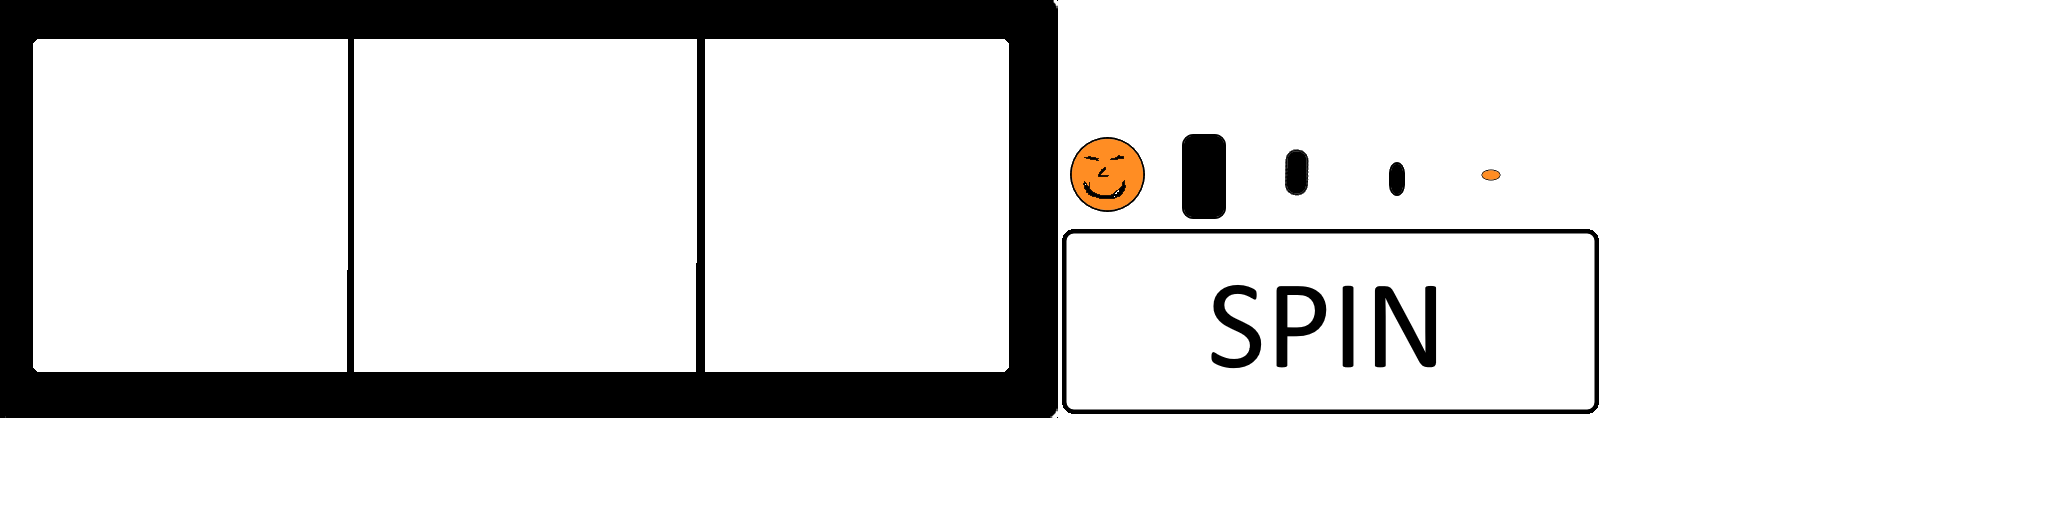
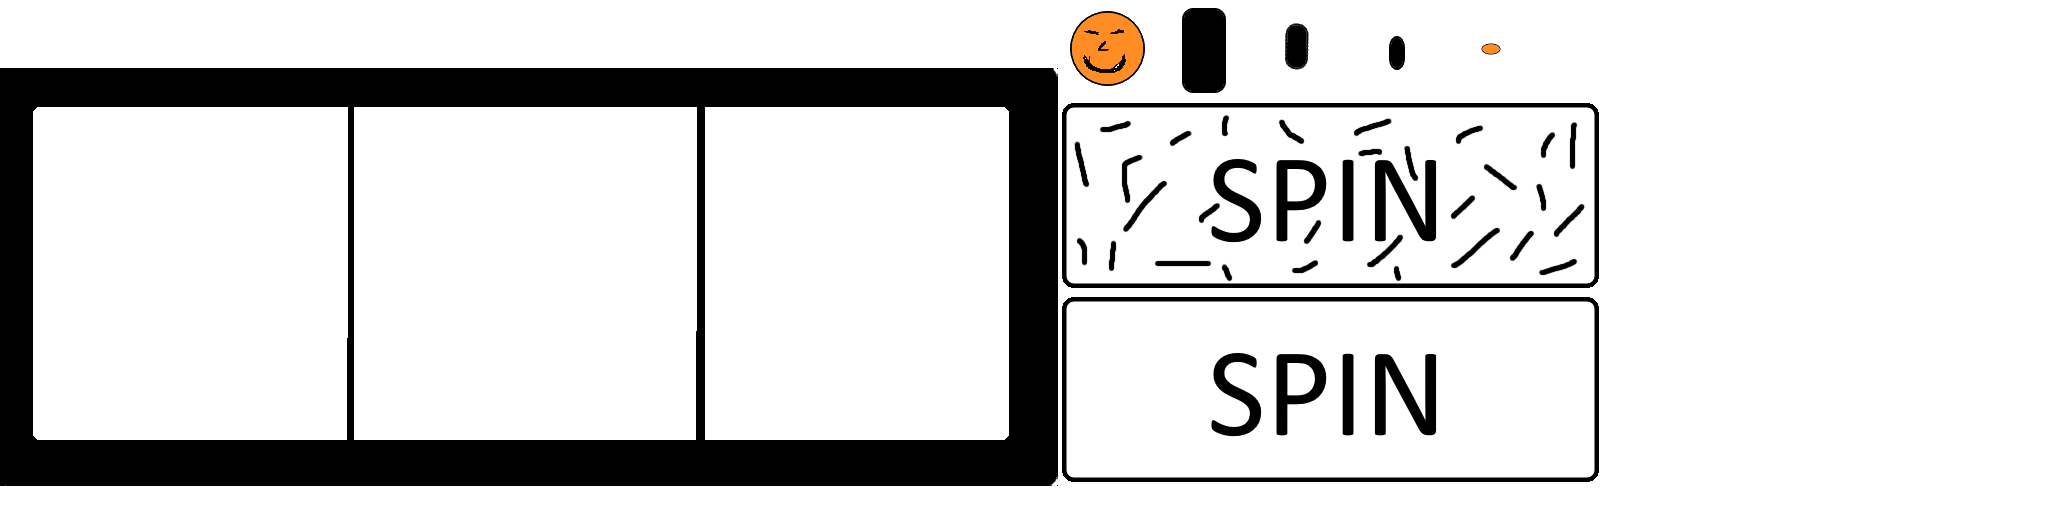
new spin button

Changed region(s): [[0.0, 0.0, 0.7812, 0.9688], [0.7188, 0.0938, 0.75, 0.125], [0.6875, 0.25, 0.7188, 0.2812]]

diff --git a/core/src/com/ledzinygamedevelopment/fallingman/screens/PlayScreen.java b/core/src/com/ledzinygamedevelopment/fallingman/screens/PlayScreen.java
@@ -19,10 +19,12 @@ import com.badlogic.gdx.physics.box2d.Fixture;
 import com.badlogic.gdx.physics.box2d.FixtureDef;
 import com.badlogic.gdx.physics.box2d.World;
 import com.badlogic.gdx.physics.box2d.joints.RopeJointDef;
+import com.badlogic.gdx.utils.Array;
 import com.badlogic.gdx.utils.viewport.ExtendViewport;
 import com.badlogic.gdx.utils.viewport.Viewport;
 import com.ledzinygamedevelopment.fallingman.FallingMan;
 import com.ledzinygamedevelopment.fallingman.sprites.interactiveobjects.Coin;
+import com.ledzinygamedevelopment.fallingman.sprites.interactiveobjects.buttons.Button;
 import com.ledzinygamedevelopment.fallingman.sprites.interactiveobjects.buttons.SpinButton;
 import com.ledzinygamedevelopment.fallingman.sprites.onearmbandit.OneArmBandit;
 import com.ledzinygamedevelopment.fallingman.sprites.player.Player;
@@ -30,6 +32,8 @@ import com.ledzinygamedevelopment.fallingman.tools.B2WorldCreator;
 import com.ledzinygamedevelopment.fallingman.tools.WorldContactListener;
 
 import java.util.Random;
+
+import sun.security.provider.ConfigFile;
 
 public class PlayScreen implements Screen {
 
@@ -54,13 +58,9 @@ public class PlayScreen implements Screen {
     //all bodies from map
     private B2WorldCreator b2WorldCreator;
 
-    //touch sensor
-    private Body touchSensorKinematicBody;
-    private Fixture touchSensorKinematicFixture;
-    private Body touchSensorDynamicBody;
-    private Fixture touchSensorDynamicFixture;
-
     private  OneArmBandit oneArmBandit;
+    private SpinButton spinButton;
+    private Array<Button> buttons;
 
     public PlayScreen(FallingMan game) {
         atlas = new TextureAtlas("player.pack");
@@ -77,11 +77,14 @@ public class PlayScreen implements Screen {
         b2dr = new Box2DDebugRenderer();
 
         b2WorldCreator = new B2WorldCreator(world, map);
-        createTouchSensor();
         //creating player
         player = new Player(world, this);
         oneArmBandit = new OneArmBandit(this, world);
         world.setContactListener(new WorldContactListener(player));
+
+        buttons = new Array<>();
+        spinButton = new SpinButton(this, world, 448 / FallingMan.PPM, 7936 / FallingMan.PPM, 544 / FallingMan.PPM, 192 / FallingMan.PPM);
+        buttons.add(spinButton);
         //gameCam.zoom = 5;
     }
 
@@ -109,19 +112,27 @@ public class PlayScreen implements Screen {
         //mobile
         if(Gdx.input.isTouched()) {
 
-            // setting touched point to collide with buttons
-            setCategoryTouchSensorFilter(FallingMan.TOUCHED_POINT_BIT);
+            // check if buttons click
             Vector2 mouseVector = gamePort.unproject(new Vector2(Gdx.input.getX(), Gdx.input.getY()));
-            touchSensorKinematicBody.setTransform(mouseVector, 0);
-            touchSensorDynamicBody.setTransform(mouseVector, 0);
+            for (Button button : buttons) {
+                if(button.mouseOver(mouseVector)) {
+                    button.touched();
+                }
+            }
+
             //moving player
             if(Gdx.input.getX() < Gdx.graphics.getWidth() / 2f) {
                 player.getBelly().getB2body().applyLinearImpulse(new Vector2(-0.5f, 0f), player.getBelly().getB2body().getWorldCenter(), true);
             } else {
                 player.getBelly().getB2body().applyLinearImpulse(new Vector2(0.5f, 0f), player.getBelly().getB2body().getWorldCenter(), true);
             }
-        } else if(touchSensorKinematicFixture.getFilterData().categoryBits != FallingMan.UNTOUCHED_POINT_BIT){ // if screen untouched then set touch sensor filter to not collide with buttons
-            setCategoryTouchSensorFilter(FallingMan.UNTOUCHED_POINT_BIT);
+        } else {
+            for(Button button : buttons) {
+                if(button.isClicked()) {
+                    player.setRemoveHeadJointsAndButton(true);
+                    removeButton(button);
+                }
+            }
         }
     }
 
@@ -159,6 +170,9 @@ public class PlayScreen implements Screen {
         game.batch.begin();
         player.draw(game.batch);
         oneArmBandit.draw(game.batch);
+        for(Button button : buttons) {
+            button.draw(game.batch);
+        }
         game.batch.end();
     }
 
@@ -206,60 +220,11 @@ public class PlayScreen implements Screen {
         player.updateBodyParts();
     }
 
-    private void createTouchSensor() {
-
-        BodyDef bdef = new BodyDef();
-        bdef.type = BodyDef.BodyType.DynamicBody;
-        touchSensorDynamicBody = world.createBody(bdef);
-
-        FixtureDef fdef = new FixtureDef();
-        CircleShape shape = new CircleShape();
-        shape.setRadius(10 / FallingMan.PPM);
-
-        fdef.shape = shape;
-        //fdef.isSensor = true;
-        fdef.filter.categoryBits = FallingMan.UNTOUCHED_POINT_BIT;
-        fdef.filter.maskBits = FallingMan.SPIN_BIT;
-        touchSensorDynamicFixture = touchSensorDynamicBody.createFixture(fdef);
-
-        bdef = new BodyDef();
-        bdef.type = BodyDef.BodyType.KinematicBody;
-        touchSensorKinematicBody = world.createBody(bdef);
-
-        fdef = new FixtureDef();
-        shape.setRadius(10 / 100f);
-        fdef.shape = shape;
-        fdef.isSensor = true;
-        fdef.filter.categoryBits = FallingMan.UNTOUCHED_POINT_BIT;
-        fdef.filter.maskBits = FallingMan.SPIN_BIT;
-        touchSensorKinematicFixture = touchSensorKinematicBody.createFixture(fdef);
-
-
-        RopeJointDef ropeJointDef = new RopeJointDef();
-        ropeJointDef.localAnchorA.x = 0;
-        ropeJointDef.localAnchorB.x = 0;
-        ropeJointDef.localAnchorA.y = 0;
-        ropeJointDef.localAnchorB.y = 0;
-        ropeJointDef.bodyA = touchSensorDynamicBody;
-        ropeJointDef.bodyB = touchSensorKinematicBody;
-        ropeJointDef.maxLength = 1 / FallingMan.PPM;
-        world.createJoint(ropeJointDef);
-
-    }
-
-    public void setCategoryTouchSensorFilter(short filterBit) {
-        Filter filter = new Filter();
-        filter.categoryBits = filterBit;
-        filter.maskBits = FallingMan.SPIN_BIT;
-        touchSensorKinematicFixture.setFilterData(filter);
-
-        filter = new Filter();
-        filter.categoryBits = filterBit;
-        filter.maskBits = FallingMan.SPIN_BIT;
-        touchSensorDynamicFixture.setFilterData(filter);
-    }
-
     public B2WorldCreator getB2WorldCreator() {
         return b2WorldCreator;
+    }
+
+    public void removeButton(Button button) {
+        buttons.removeValue(button, false);
     }
 }

diff --git a/core/src/com/ledzinygamedevelopment/fallingman/sprites/interactiveobjects/buttons/Button.java b/core/src/com/ledzinygamedevelopment/fallingman/sprites/interactiveobjects/buttons/Button.java
@@ -1,5 +1,7 @@
 package com.ledzinygamedevelopment.fallingman.sprites.interactiveobjects.buttons;
 
+import com.badlogic.gdx.Gdx;
+import com.badlogic.gdx.Screen;
 import com.badlogic.gdx.graphics.g2d.Sprite;
 import com.badlogic.gdx.maps.MapObject;
 import com.badlogic.gdx.maps.objects.PolygonMapObject;
@@ -14,63 +16,43 @@ import com.badlogic.gdx.physics.box2d.PolygonShape;
 import com.badlogic.gdx.physics.box2d.World;
 import com.badlogic.gdx.utils.Array;
 import com.ledzinygamedevelopment.fallingman.FallingMan;
+import com.ledzinygamedevelopment.fallingman.screens.PlayScreen;
 
 public abstract class Button extends Sprite {
 
     protected BodyDef bdef;
     protected Body b2body;
     protected FixtureDef fdef;
-    protected Rectangle bounds;
+    protected PlayScreen playScreen;
     protected World world;
-    protected TiledMap map;
-    private int mapLayer;
+    protected float posX;
+    protected float posY;
+    protected float width;
+    protected float height;
+    protected boolean clicked;
 
-    public Button(Rectangle bounds, World world, TiledMap map, int mapLayer) {
-        this.bounds = bounds;
+    public Button(PlayScreen playScreen, World world, float posX, float posY, float width, float height) {
+        this.playScreen = playScreen;
         this.world = world;
-        this.map = map;
-        this.mapLayer = mapLayer;
-
-
-        defineButton(bounds);
+        this.posX = posX;
+        this.posY = posY;
+        this.width = width;
+        this.height = height;
+        clicked = false;
     }
 
-    public abstract void defineButton(Rectangle bounds);
+    public abstract void touched();
 
-    public void removeCells() {
-        TiledMapTileLayer layer = (TiledMapTileLayer) map.getLayers().get(mapLayer);
-        Array<TiledMapTileLayer.Cell> cells = new Array<>();
-
-        int sizeWidth = (int) bounds.getWidth() / FallingMan.CELL_SIZE / 2;
-        int maxSizeWidth = (bounds.getWidth() / FallingMan.CELL_SIZE) % 2 == 0 ? sizeWidth - 1 : sizeWidth;
-        int sizeHeight = (int) bounds.getHeight() / FallingMan.CELL_SIZE / 2;
-        int maxSizeHeight = (bounds.getHeight() / FallingMan.CELL_SIZE) % 2 == 0 ? sizeHeight - 1 : sizeHeight;
-
-        for(int i = -sizeWidth; i <= maxSizeWidth; i++) {
-            for(int j = -sizeHeight; j <= maxSizeHeight; j++) {
-                cells.add(layer.getCell((int) (((b2body.getPosition().x * FallingMan.PPM) + (i * FallingMan.CELL_SIZE)) / FallingMan.CELL_SIZE),
-                        (int) (((b2body.getPosition().y * FallingMan.PPM) + (j * FallingMan.CELL_SIZE)) / FallingMan.CELL_SIZE)));
-            }
-        }
-
-        for(TiledMapTileLayer.Cell cell : cells) {
-            try {
-                cell.setTile(null);
-            } catch (Exception e) {
-                e.printStackTrace();
-            }
-        }
-    }
-/*
     // checking if mouse position equals button position
     public boolean mouseOver(Vector2 mousePosition) {
-        if(mousePosition.x > posX - width / 2 * scale + width / 2 && mousePosition.x < posX + width / 2 * scale + width / 2
-                && mousePosition.y > posY - height / 2 * scale + height / 2 && mousePosition.y < posY + height / 2 * scale + height / 2)
+        if(mousePosition.x > posX && mousePosition.x < posX + width
+                && mousePosition.y > posY && mousePosition.y < posY + height)
             return true;
         else
             return false;
-    }*/
+    }
 
-    public abstract Body getB2body();
-
+    public boolean isClicked() {
+        return clicked;
+    }
 }

diff --git a/core/src/com/ledzinygamedevelopment/fallingman/sprites/interactiveobjects/buttons/SpinButton.java b/core/src/com/ledzinygamedevelopment/fallingman/sprites/interactiveobjects/buttons/SpinButton.java
@@ -1,5 +1,6 @@
 package com.ledzinygamedevelopment.fallingman.sprites.interactiveobjects.buttons;
 
+import com.badlogic.gdx.graphics.g2d.TextureRegion;
 import com.badlogic.gdx.maps.MapObject;
 import com.badlogic.gdx.maps.objects.PolygonMapObject;
 import com.badlogic.gdx.maps.tiled.TiledMap;
@@ -10,37 +11,26 @@ import com.badlogic.gdx.physics.box2d.FixtureDef;
 import com.badlogic.gdx.physics.box2d.PolygonShape;
 import com.badlogic.gdx.physics.box2d.World;
 import com.ledzinygamedevelopment.fallingman.FallingMan;
+import com.ledzinygamedevelopment.fallingman.screens.PlayScreen;
 
 public class SpinButton extends Button{
 
 
-    public SpinButton(Rectangle bounds, World world, TiledMap map, int mapLayer) {
-        super(bounds, world, map, mapLayer);
+    private TextureRegion spinButtonTexture;
+
+    public SpinButton(PlayScreen playScreen, World world, float posX, float posY, float width, float height) {
+        super(playScreen, world, posX, posY, width, height);
+
+        setBounds(0, 0, width, height);
+        setRegion(playScreen.getAtlas().findRegion("spin"), 0, 0, (int) (width * FallingMan.PPM), (int) (height * FallingMan.PPM));
+        setPosition(posX, posY);
     }
 
     @Override
-    public void defineButton(Rectangle bounds) {
-
-        PolygonShape shape = new PolygonShape();
-        shape.setAsBox((bounds.getWidth() / 2)  / FallingMan.PPM, (bounds.getHeight() / 2)  / FallingMan.PPM);
-
-        bdef = new BodyDef();
-        bdef.type = BodyDef.BodyType.StaticBody;
-        bdef.position.set((bounds.getX() + bounds.getWidth() / 2) / FallingMan.PPM, (bounds.getY() + bounds.getHeight() / 2) / FallingMan.PPM);
-
-        b2body = world.createBody(bdef);
-        fdef = new FixtureDef();
-        fdef.shape = shape;
-        fdef.filter.categoryBits = FallingMan.SPIN_BIT;
-        fdef.filter.maskBits = FallingMan.TOUCHED_POINT_BIT;
-        //fdef.isSensor = true;
-        b2body.createFixture(fdef).setUserData(this);
+    public void touched() {
+        setRegion(playScreen.getAtlas().findRegion("spin_clicked"), 0, 0, (int) (width * FallingMan.PPM), (int) (height * FallingMan.PPM));
+        clicked = true;
     }
 
-    @Override
-    public Body getB2body() {
-        return b2body;
-    }
-
-
+//, 448, 7936, 544, 192
 }

diff --git a/core/src/com/ledzinygamedevelopment/fallingman/sprites/player/Player.java b/core/src/com/ledzinygamedevelopment/fallingman/sprites/player/Player.java
@@ -1,5 +1,6 @@
 package com.ledzinygamedevelopment.fallingman.sprites.player;
 
+import com.badlogic.gdx.Gdx;
 import com.badlogic.gdx.graphics.g2d.Sprite;
 import com.badlogic.gdx.graphics.g2d.TextureRegion;
 import com.badlogic.gdx.physics.box2d.Body;
@@ -58,7 +59,6 @@ public class Player extends Sprite {
     private boolean headJointsExist;
     private boolean removeHeadJointsAndButton;
     private RevoluteJoint headJoint;
-    private RopeJoint ropeHeadJoint;
 
     public Player(World world, PlayScreen playScreen) {
         super(playScreen.getAtlas().findRegion("player"));
@@ -127,8 +127,9 @@ public class Player extends Sprite {
             if(headJointsExist) {
                 world.destroyJoint(headJoint);
                 headJointsExist = false;
+                Gdx.app.log("kkk", "kkk");
             }
-            world.destroyBody(playScreen.getB2WorldCreator().getButton().getB2body());
+            //world.destroyBody(playScreen.getB2WorldCreator().getButton().getB2body());
             //world.destroyJoint(ropeHeadJoint);
             removeHeadJointsAndButton = false;
         }

diff --git a/core/src/com/ledzinygamedevelopment/fallingman/tools/WorldContactListener.java b/core/src/com/ledzinygamedevelopment/fallingman/tools/WorldContactListener.java
@@ -43,7 +43,7 @@ public class WorldContactListener implements ContactListener {
                     ((DeadMachine) fixA.getUserData()).touched();
                 }
                 break;
-            case FallingMan.TOUCHED_POINT_BIT | FallingMan.SPIN_BIT:
+            /*case FallingMan.TOUCHED_POINT_BIT | FallingMan.SPIN_BIT:
 
                 if(fixA.getFilterData().categoryBits == FallingMan.TOUCHED_POINT_BIT) {
                     Gdx.app.log("dead machine", "dasdsa");
@@ -56,7 +56,7 @@ public class WorldContactListener implements ContactListener {
                     ((SpinButton) fixA.getUserData()).removeCells();
                     player.setRemoveHeadJointsAndButton(true);
                 }
-                break;
+                break;*/
         }
     }
 

diff --git a/core/src/com/ledzinygamedevelopment/fallingman/tools/B2WorldCreator.java b/core/src/com/ledzinygamedevelopment/fallingman/tools/B2WorldCreator.java
@@ -59,11 +59,11 @@ public class B2WorldCreator {
             b2bodies.add(new DeadMachine(world, map, rect, 3).getBody());
         }
 
-        //one-armed bandit spin button
+        /*//one-armed bandit spin button
         for(MapObject object : map.getLayers().get(7).getObjects().getByType(RectangleMapObject.class)) {
             Rectangle rect = ((RectangleMapObject) object).getRectangle();
             button = new SpinButton(rect, world, map, 1);
-        }
+        }*/
     }
 
     public Array<Body> getB2bodies() {
